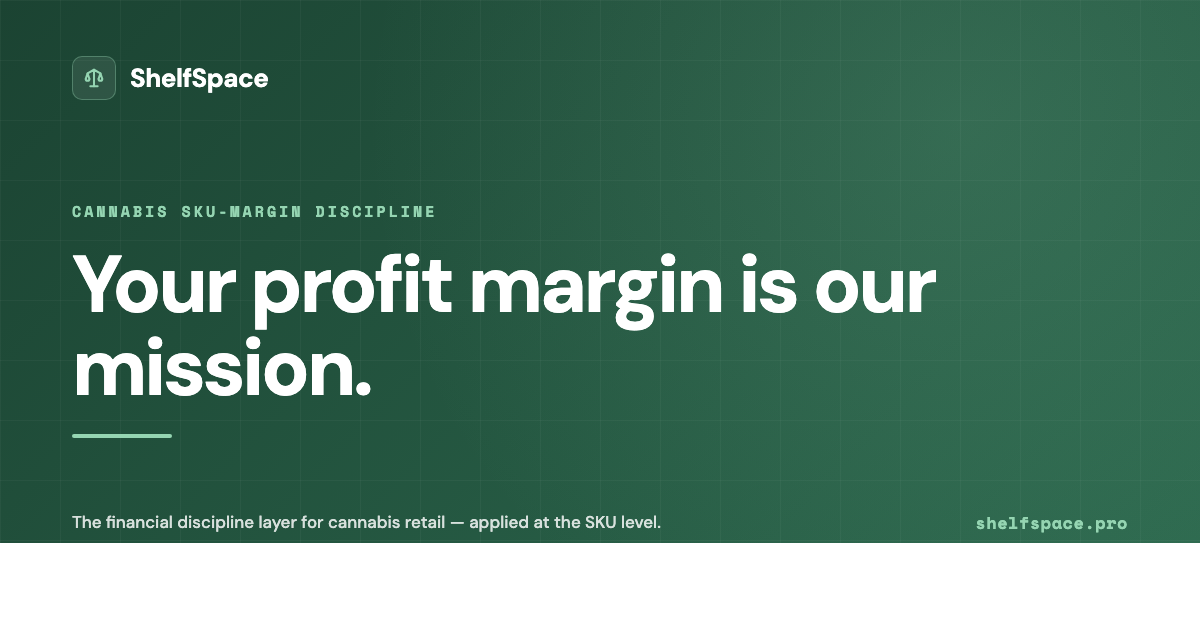
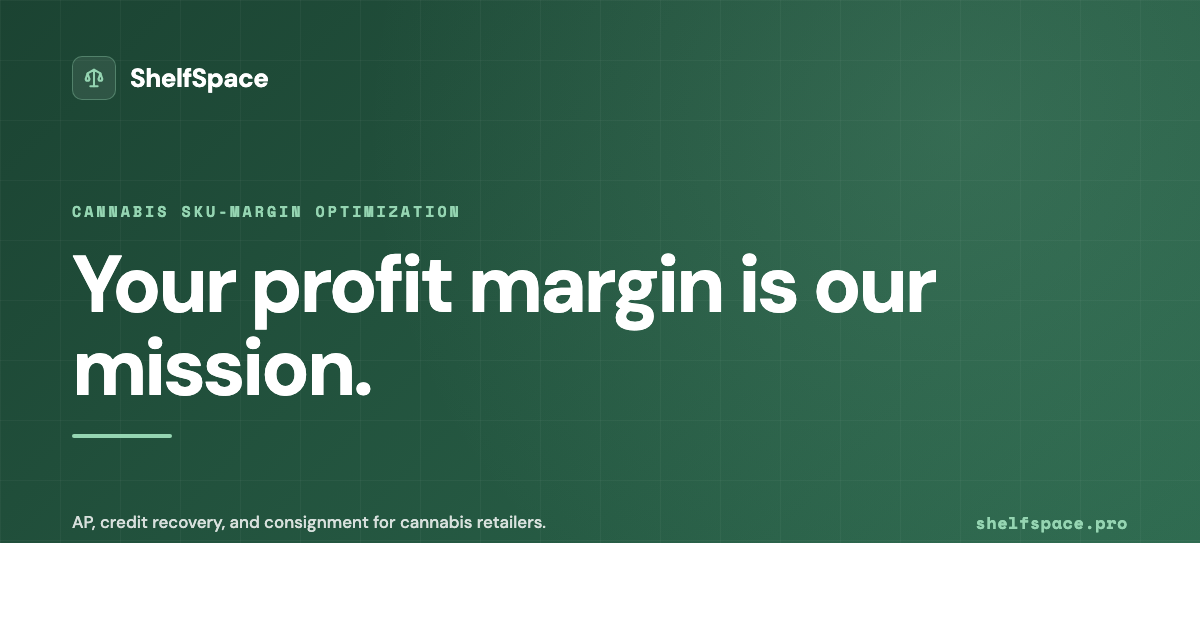
sitewide: rewrite copy to match user's revealed messaging preferences
Audit pass after the user provided 5 corrective edits revealing distinct
preferences: shorter > longer, plain owner-grade > marketing voice, anchor
with familiar brands or specific numbers, provocative questions OK as
sublines, vendors are partners not adversaries, ELI5 mechanics. Applied
those preferences to every remaining piece of shipped copy.

Critical fixes:
- /accounts-payable why-strip: "Every dollar maps to a SKU" mechanism-speak
  → "You're paying for product you didn't get" + concrete examples
- /credit-recovery why-strip: generic "underperforms its margin" framing
  → "The vendor owes you money. They're not going to volunteer it." with
  concrete $40/$80 example
- /shelfiq why-strip: removed parenthetical-list ("trigger" framing) →
  three concrete role-based scenarios (vendor / buyer / bookkeeper)
- /how-it-works why-strip: dropped 5-jargon-term paragraph → plain
  narrative tied to "you bought it expecting a number"
- /pricing eyebrow: "Cannabis SKU-margin discipline" → "Pricing"; why-strip
  rewritten around "Money back, before it leaves" plus concrete payoff
- /index stakes pivot: removed "the function that catches it" (the exact
  construction the user edited out of the homepage hero)

Real fixes:
- /consignment meta: "vendors carry the risk" → Home Depot anchor + "share
  the win" partnership framing
- /credit-recovery meta: dropped "below-target discounts" jargon → 50%
  margin echo of the new hero
[…]

Changed region(s): [[0.0617, 0.8143, 0.555, 0.8444], [0.2775, 0.3317, 0.4008, 0.3619]]

diff --git a/index.html b/index.html
@@ -4,19 +4,19 @@
 <meta charset="UTF-8">
 <meta name="viewport" content="width=device-width, initial-scale=1.0">
 <title>ShelfSpace — The AP Team for Cannabis Dispensaries</title>
-<meta name="description" content="Your profit margin is our mission. We're the financial discipline layer for cannabis retail — every SKU on your shelf hits its margin. AP, credits, consignment.">
+<meta name="description" content="Your profit margin is our mission. We optimize the profit margin of every SKU on your shelf — through AP, credit recovery, and consignment.">
 <link rel="canonical" href="https://shelfspace.pro/">
 <meta property="og:type" content="website">
 <meta property="og:url" content="https://shelfspace.pro/">
 <meta property="og:title" content="ShelfSpace — The AP Team for Cannabis Dispensaries">
-<meta property="og:description" content="Your profit margin is our mission. We're the financial discipline layer for cannabis retail — every SKU on your shelf hits its margin. AP, credits, consignment.">
+<meta property="og:description" content="Your profit margin is our mission. We optimize the profit margin of every SKU on your shelf — through AP, credit recovery, and consignment.">
 <meta property="og:image" content="https://shelfspace.pro/og-image-v2.png">
 <meta property="og:image:width" content="1200">
 <meta property="og:image:height" content="630">
 <meta property="og:image:type" content="image/png">
 <meta name="twitter:card" content="summary_large_image">
 <meta name="twitter:title" content="ShelfSpace — The AP Team for Cannabis Dispensaries">
-<meta name="twitter:description" content="Your profit margin is our mission. We're the financial discipline layer for cannabis retail — every SKU on your shelf hits its margin. AP, credits, consignment.">
+<meta name="twitter:description" content="Your profit margin is our mission. We optimize the profit margin of every SKU on your shelf — through AP, credit recovery, and consignment.">
 <meta name="twitter:image" content="https://shelfspace.pro/og-image-v2.png">
 <meta name="apple-mobile-web-app-title" content="ShelfSpace">
 <link rel="icon" type="image/svg+xml" href="/favicon.svg">
@@ -481,7 +481,7 @@
   "name": "ShelfSpace",
   "url": "https://shelfspace.pro",
   "logo": "https://shelfspace.pro/favicon.svg",
-  "description": "Your profit margin is our mission. The financial discipline layer for cannabis retail — every dollar paid maps to a specific SKU, every credit owed gets recovered, every consignment margin holds at its floor. Found $500K at a two-store chain.",
+  "description": "Your profit margin is our mission. We optimize the profit margin of every SKU on your shelf — through outsourced accounts payable, vendor credit recovery, and consignment settlements. Found $500K at a two-store chain.",
   "founder": {
     "@type": "Person",
     "name": "Chris Mitchem",
@@ -653,7 +653,7 @@ document.head.appendChild(o)}initApollo();</script>
     <div class="section-label">What's actually at stake</div>
     <h2>Many cannabis retailers are at risk of closing. Not because they made bad decisions — because their SKUs are silently bleeding money.</h2>
     <p>An expired bag the vendor never reimbursed. A SKU discounted past its margin target with no credit filed. An invoice billed for 24 units when 22 came in. Each one's small. Stacked across hundreds of SKUs and a year, it's the difference between staying open and not.</p>
-    <p class="stakes-pivot">We're the function that catches it — at the SKU level, every month, handled by us so you don't have to.</p>
+    <p class="stakes-pivot">We catch it for you. Every SKU, every month. You just approve.</p>
     <a href="/about#mission" class="stakes-link">Read the full thesis <svg width="14" height="14" viewBox="0 0 24 24" fill="none" stroke="currentColor" stroke-width="2.5"><line x1="5" y1="12" x2="19" y2="12"/><polyline points="12 5 19 12 12 19"/></svg></a>
   </div>
 </section>

diff --git a/credit-recovery.html b/credit-recovery.html
@@ -4,19 +4,19 @@
 <meta charset="UTF-8">
 <meta name="viewport" content="width=device-width, initial-scale=1.0">
 <title>Cannabis Vendor Credit Recovery — ShelfSpace</title>
-<meta name="description" content="Your profit margin is our mission. When a SKU underperforms — returns, expirations, below-target discounts — we recover the dollars on your behalf.">
+<meta name="description" content="Your profit margin is our mission. You bought product expecting a 50% margin. The real margin is lower. We recover what the vendor owes you, line by line.">
 <link rel="canonical" href="https://shelfspace.pro/credit-recovery">
 <meta property="og:type" content="website">
 <meta property="og:url" content="https://shelfspace.pro/credit-recovery">
 <meta property="og:title" content="Cannabis Vendor Credit Recovery — ShelfSpace">
-<meta property="og:description" content="Your profit margin is our mission. When a SKU underperforms — returns, expirations, below-target discounts — we recover the dollars on your behalf.">
+<meta property="og:description" content="Your profit margin is our mission. You bought product expecting a 50% margin. The real margin is lower. We recover what the vendor owes you, line by line.">
 <meta property="og:image" content="https://shelfspace.pro/og-image-v2.png">
 <meta property="og:image:width" content="1200">
 <meta property="og:image:height" content="630">
 <meta property="og:image:type" content="image/png">
 <meta name="twitter:card" content="summary_large_image">
 <meta name="twitter:title" content="Cannabis Vendor Credit Recovery — ShelfSpace">
-<meta name="twitter:description" content="Your profit margin is our mission. When a SKU underperforms — returns, expirations, below-target discounts — we recover the dollars on your behalf.">
+<meta name="twitter:description" content="Your profit margin is our mission. You bought product expecting a 50% margin. The real margin is lower. We recover what the vendor owes you, line by line.">
 <meta name="twitter:image" content="https://shelfspace.pro/og-image-v2.png">
 <meta name="apple-mobile-web-app-title" content="ShelfSpace">
 <link rel="icon" type="image/svg+xml" href="/favicon.svg">
@@ -448,8 +448,8 @@ document.head.appendChild(o)}initApollo();</script>
 <!-- WHY-STRIP -->
 <section class="why-strip reveal" aria-label="The mission behind credit recovery">
   <div class="why-strip-eyebrow">Why we recover credits</div>
-  <h2 class="why-strip-headline">When a SKU underperforms its margin, we get the dollars back.</h2>
-  <p class="why-strip-body">Returns. Expirations. Sales discounted past their target with co-marketing dollars on the table. Each one's a margin gap on a SKU that already happened. We file for it, line by line, on your behalf.</p>
+  <h2 class="why-strip-headline">The vendor owes you money. They're not going to volunteer it.</h2>
+  <p class="why-strip-body">You bought a $40 product expecting to sell it at $80. Then it expired. Or you discounted it. Or it came back broken. Most vendor contracts owe you a credit on each one. Most retailers never ask. We do.</p>
   <a href="/about#mission" class="why-strip-link">The full thesis <svg width="12" height="12" viewBox="0 0 24 24" fill="none" stroke="currentColor" stroke-width="2.5"><line x1="5" y1="12" x2="19" y2="12"/><polyline points="12 5 19 12 12 19"/></svg></a>
 </section>
 

diff --git a/pricing.html b/pricing.html
@@ -500,9 +500,9 @@ document.head.appendChild(o)}initApollo();</script>
 <section class="pricing-hero">
   <div class="pricing-hero-grid"></div>
   <div class="pricing-hero-content">
-    <div class="section-label reveal" style="margin-bottom:6px;">Cannabis SKU-margin discipline</div>
+    <div class="section-label reveal" style="margin-bottom:6px;">Pricing</div>
     <h1 class="reveal">An AP team that actually makes you money.</h1>
-    <p class="pricing-hero-sub reveal">Most clients lift profits 15%+ in the first 90 days — because every dollar paid, every credit owed, and every consignment margin is held to a target.</p>
+    <p class="pricing-hero-sub reveal">Most clients lift profits 15%+ in the first 90 days — because we find the dollars your AP, your credits, and your shelves are quietly losing.</p>
     <p class="pricing-hero-eval reveal">Free evaluation first — <a href="/contact">see your numbers before you commit</a>.</p>
   </div>
 </section>
@@ -698,8 +698,8 @@ document.head.appendChild(o)}initApollo();</script>
 <section style="padding:48px 24px 0;">
   <div class="why-strip reveal" aria-label="What you're paying for">
     <div class="why-strip-eyebrow">What you're paying for</div>
-    <h2 class="why-strip-headline">SKU-margin discipline. The mechanisms come included.</h2>
-    <p class="why-strip-body">You're not paying for AP software, or a credit-recovery commission, or a consignment platform. You're paying for the function that keeps every SKU on your shelf economically honest. AP, credits, consignment, ShelfiQ — that's how we deliver it.</p>
+    <h2 class="why-strip-headline">Money back, before it leaves.</h2>
+    <p class="why-strip-body">You're not paying for software. You're not paying for a dashboard. You're paying us to find the dollars your vendors owe you, the dollars your invoices are overcharging, and the cash trapped on your shelves — and put them back in your account. AP, credits, consignment, ShelfiQ are how we get there.</p>
     <a href="/about#mission" class="why-strip-link">The full thesis <svg width="12" height="12" viewBox="0 0 24 24" fill="none" stroke="currentColor" stroke-width="2.5"><line x1="5" y1="12" x2="19" y2="12"/><polyline points="12 5 19 12 12 19"/></svg></a>
   </div>
 </section>

diff --git a/about.html b/about.html
@@ -185,7 +185,7 @@ document.head.appendChild(o)}initApollo();</script>
     <p class="reveal">Wholesale prices have crashed. Taxes eat up to 40% of retail in some states. Brands rotate every quarter. Many owners look at their P&amp;L and see the average — gross margin holding around 50%, give or take — and figure they're doing OK.</p>
     <p class="reveal">Many won't be. Inside that average, individual SKUs are silently losing money. An expired bag the vendor never reimbursed. A SKU discounted past its margin target with no credit filed. An invoice billed for 24 units when 22 came in. Each one is small. Stacked across hundreds of SKUs and a year, it's the difference between staying open and not.</p>
     <p class="reveal"><strong>That math is invisible until it isn't.</strong> By the time it shows up in the average, it's too late to fix.</p>
-    <p class="reveal">ShelfSpace exists to make that math visible — and get the dollars back before they leave. AP, credit recovery, consignment, ShelfiQ — those are the mechanisms. The mission is the margin.</p>
+    <p class="reveal">ShelfSpace makes that math visible. We catch the leaks, ask vendors for the credits they owe, and put the right vendors on consignment so the wrong ones stop costing you cash. Every dollar that should be in your account — we get it there.</p>
   </div>
 </section>
 
@@ -227,7 +227,7 @@ document.head.appendChild(o)}initApollo();</script>
   <div class="mission-container">
     <div class="section-label reveal">Our Mission</div>
     <h2 class="reveal">Your profit margin is our mission.</h2>
-    <p class="reveal">Cannabis retail is in a margin compression event many operators won't survive. The ones who do will be the ones whose SKUs are economically honest — every dollar that should be in their pocket actually arrives. We're the financial discipline layer for cannabis retail, applied at the SKU level.</p>
+    <p class="reveal">Every retailer fights the same fight: vendors overcharge, products expire, credits never get filed, and the margin you bought disappears. We make sure it doesn't. We watch the math, recover the dollars, and keep your margin where it belongs — in your account.</p>
   </div>
 </div>
 

diff --git a/consignment.html b/consignment.html
@@ -4,19 +4,19 @@
 <meta charset="UTF-8">
 <meta name="viewport" content="width=device-width, initial-scale=1.0">
 <title>Managed Cannabis Consignment — ShelfSpace</title>
-<meta name="description" content="Your profit margin is our mission. We run consignment so the right vendors carry the risk and your margin floor stays locked at the SKU level.">
+<meta name="description" content="Your profit margin is our mission. Major retailers like Home Depot sell on consignment — pay the vendor when the customer pays you, free up cash, share the win.">
 <link rel="canonical" href="https://shelfspace.pro/consignment">
 <meta property="og:type" content="website">
 <meta property="og:url" content="https://shelfspace.pro/consignment">
 <meta property="og:title" content="Managed Cannabis Consignment — ShelfSpace">
-<meta property="og:description" content="Your profit margin is our mission. We run consignment so the right vendors carry the risk and your margin floor stays locked at the SKU level.">
+<meta property="og:description" content="Your profit margin is our mission. Major retailers like Home Depot sell on consignment — pay the vendor when the customer pays you, free up cash, share the win.">
 <meta property="og:image" content="https://shelfspace.pro/og-image-v2.png">
 <meta property="og:image:width" content="1200">
 <meta property="og:image:height" content="630">
 <meta property="og:image:type" content="image/png">
 <meta name="twitter:card" content="summary_large_image">
 <meta name="twitter:title" content="Managed Cannabis Consignment — ShelfSpace">
-<meta name="twitter:description" content="Your profit margin is our mission. We run consignment so the right vendors carry the risk and your margin floor stays locked at the SKU level.">
+<meta name="twitter:description" content="Your profit margin is our mission. Major retailers like Home Depot sell on consignment — pay the vendor when the customer pays you, free up cash, share the win.">
 <meta name="twitter:image" content="https://shelfspace.pro/og-image-v2.png">
 <meta name="apple-mobile-web-app-title" content="ShelfSpace">
 <link rel="icon" type="image/svg+xml" href="/favicon.svg">

diff --git a/shelfiq.html b/shelfiq.html
@@ -256,7 +256,7 @@ document.head.appendChild(o)}initApollo();</script>
 <div class="page-hero">
   <div class="section-label">The AI Engine Inside ShelfSpace AP</div>
   <h1 class="section-title">Meet <span class="shelfiq-name">Shelf<span class="iq">iQ</span></span></h1>
-  <p class="section-desc">ShelfiQ has full context on every SKU on your shelf — its margin, its velocity, its settlement status. So when a vendor asks, when your team asks, when something looks off — the answer's already there with live data, in seconds. The eyes that see what your team can't.</p>
+  <p class="section-desc">ShelfiQ knows every SKU on your shelf — its margin, what's selling, what each vendor owes you. When a vendor asks where their check is, ShelfiQ answers in seconds. When your buyer wants to know which SKUs are bleeding, ShelfiQ has the answer. The eyes that see what your team can't.</p>
 </div>
 
 <!-- CHAT DEMO -->
@@ -303,7 +303,7 @@ document.head.appendChild(o)}initApollo();</script>
   <div class="why-strip reveal" aria-label="The mission behind ShelfiQ">
     <div class="why-strip-eyebrow">Why ShelfiQ exists</div>
     <h2 class="why-strip-headline">The eyes that see what your team can't.</h2>
-    <p class="why-strip-body">The mechanisms (AP, credit memos, settlement adjustments) need a trigger. ShelfiQ is the trigger — full context on every SKU on your shelf, so the gap between target margin and actual margin gets seen the moment it opens.</p>
+    <p class="why-strip-body">A vendor emails asking where their check is — ShelfiQ answers in seconds with the actual amount and date. Your buyer wants to know which SKUs are losing money — ShelfiQ has the answer before you finish asking. Your bookkeeper stops chasing data. It's already there.</p>
     <a href="/about#mission" class="why-strip-link">The full thesis <svg width="12" height="12" viewBox="0 0 24 24" fill="none" stroke="currentColor" stroke-width="2.5"><line x1="5" y1="12" x2="19" y2="12"/><polyline points="12 5 19 12 12 19"/></svg></a>
   </div>
 </section>

diff --git a/accounts-payable.html b/accounts-payable.html
@@ -583,13 +583,13 @@ document.head.appendChild(o)}initApollo();</script>
   <div style="max-width:780px;margin:0 auto;">
     <div style="text-align:center;margin-bottom:48px;">
       <section class="why-strip reveal" aria-label="The mission behind this">
-        <div class="why-strip-eyebrow">Why we run AP this way</div>
-        <h2 class="why-strip-headline">Every dollar you pay a vendor maps to a specific SKU.</h2>
-        <p class="why-strip-body">Verified, never overpaid, never duplicated. AP isn't a back-office chore — it's the first place SKU margin leaks. We close the leaks before any check goes out.</p>
+        <div class="why-strip-eyebrow">Why AP matters</div>
+        <h2 class="why-strip-headline">You're paying for product you didn't get.</h2>
+        <p class="why-strip-body">Short deliveries. Duplicated invoices. Wrong prices on the line item. Small per invoice, thousands a year. We check every invoice against the delivery and the PO before any check goes out.</p>
         <a href="/about#mission" class="why-strip-link">The full thesis <svg width="12" height="12" viewBox="0 0 24 24" fill="none" stroke="currentColor" stroke-width="2.5"><line x1="5" y1="12" x2="19" y2="12"/><polyline points="12 5 19 12 12 19"/></svg></a>
       </section>
 
-      <div class="section-label reveal">What our AP runs</div>
+      <div class="section-label reveal">Where the inventory dollars leak</div>
       <h2 class="section-title reveal" style="margin-top:8px;">How every other industry has done AP for thirty years.</h2>
     </div>
     <input type="checkbox" id="m-collapse-ap-runs" class="m-collapse-cb">

diff --git a/how-it-works.html b/how-it-works.html
@@ -607,8 +607,8 @@ document.head.appendChild(o)}initApollo();</script>
 <section style="padding:48px 24px 0;">
   <div class="why-strip reveal" aria-label="The mission behind this">
     <div class="why-strip-eyebrow">What we're actually doing</div>
-    <h2 class="why-strip-headline">Closing the gap between target margin and actual margin on every SKU.</h2>
-    <p class="why-strip-body">The Metrc connection is the mechanism. The mission is the margin. Every SKU on your shelf has one it has to hit; we close the gaps between target and actual through three-way matching, vendor-term selection, credit recovery, and ShelfiQ's full SKU context.</p>
+    <h2 class="why-strip-headline">Making sure every SKU earns the margin you bought it for.</h2>
+    <p class="why-strip-body">You bought it expecting a number. We make sure the number you get matches — by checking every invoice, recovering every credit the vendor owes, and putting the right vendors on consignment so the wrong ones aren't bleeding your shelves. One Metrc connection. One team. One bottom-line lift.</p>
     <a href="/about#mission" class="why-strip-link">The full thesis <svg width="12" height="12" viewBox="0 0 24 24" fill="none" stroke="currentColor" stroke-width="2.5"><line x1="5" y1="12" x2="19" y2="12"/><polyline points="12 5 19 12 12 19"/></svg></a>
   </div>
 </section>

diff --git a/_pdf-source/og-image.html b/_pdf-source/og-image.html
@@ -124,13 +124,13 @@
     </div>
 
     <div class="mission">
-      <div class="mission-eyebrow">Cannabis SKU-Margin Discipline</div>
+      <div class="mission-eyebrow">Cannabis SKU-margin optimization</div>
       <h1 class="mission-headline">Your profit margin is our mission.</h1>
       <div class="mission-rule"></div>
     </div>
 
     <div class="footer-row">
-      <div class="footer-tag">The financial discipline layer for cannabis retail — applied at the SKU level.</div>
+      <div class="footer-tag">AP, credit recovery, and consignment for cannabis retailers.</div>
       <div class="footer-url">shelfspace.pro</div>
     </div>
 
